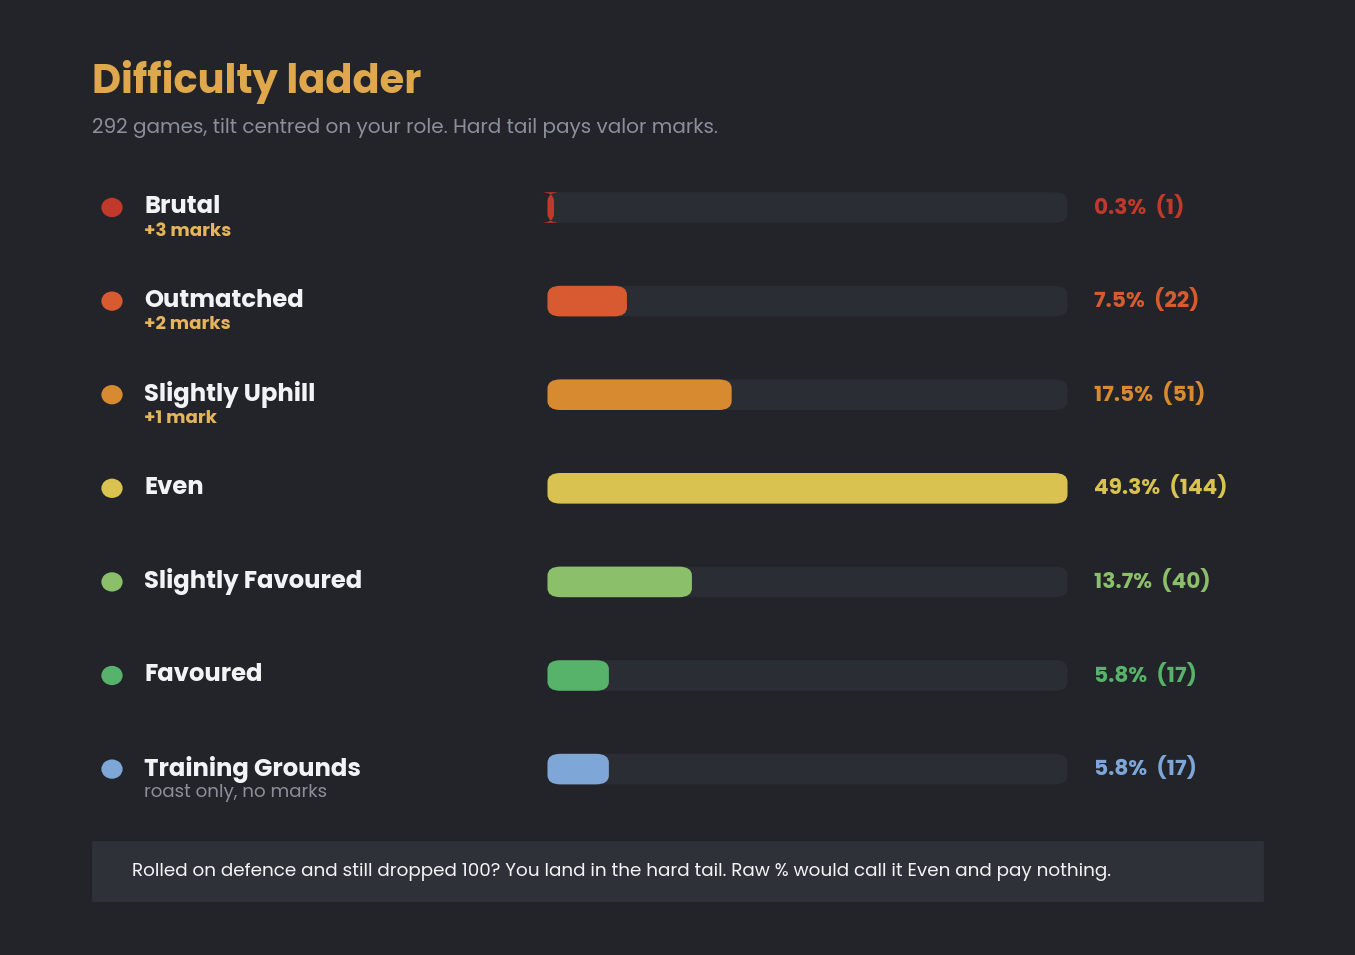
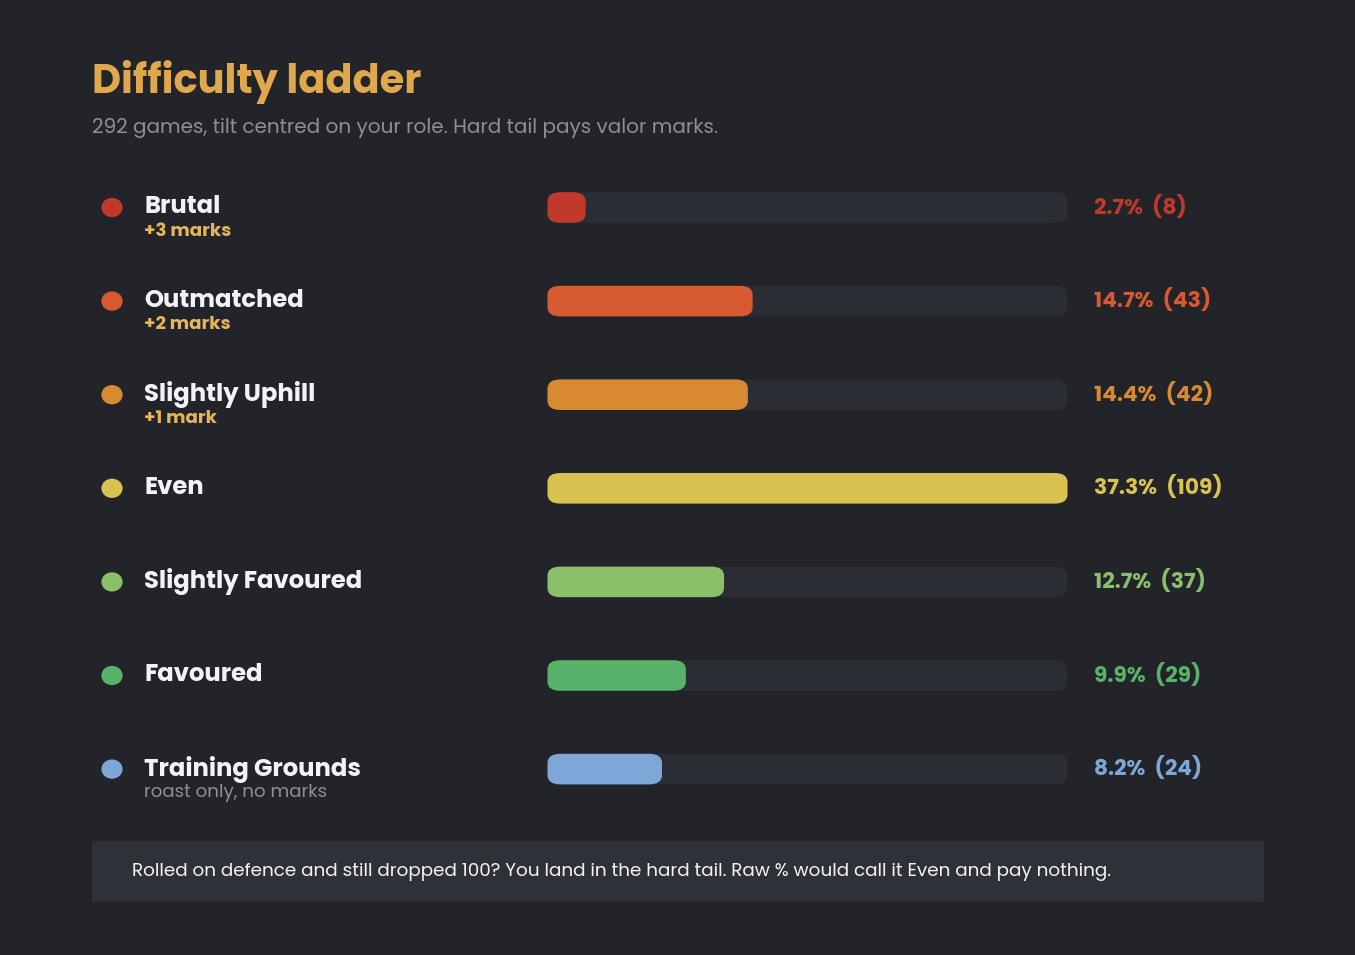
Retune difficulty bands to +/-10/22/40: tighter Even, uniform inner chunks, rare extremes; update tests, rules, charts

diff --git a/tests/test_tilt.py b/tests/test_tilt.py
@@ -52,34 +52,34 @@ def test_adjusted_centres_on_role():
 
 
 def test_band_boundaries_and_tags():
-    # Deep hard tail.
+    # Deep hard tail (Brutal: <= -40).
     assert tilt.band(-60)["name"] == "Brutal"
     assert tilt.band(-60)["marks"] == 3
     assert tilt.band(-60)["tag"] == "Brutal"
-    # Outmatched: -50..-30.
-    assert tilt.band(-40)["name"] == "Outmatched"
-    assert tilt.band(-40)["marks"] == 2
-    # Slightly Uphill: -30..-15, +1 mark.
-    assert tilt.band(-20)["name"] == "Slightly Uphill"
-    assert tilt.band(-20)["marks"] == 1
-    assert tilt.band(-20)["tag"] == "Uphill"
-    # Even core pays nothing.
+    # Outmatched: -40..-22.
+    assert tilt.band(-30)["name"] == "Outmatched"
+    assert tilt.band(-30)["marks"] == 2
+    # Slightly Uphill: -22..-10, +1 mark.
+    assert tilt.band(-15)["name"] == "Slightly Uphill"
+    assert tilt.band(-15)["marks"] == 1
+    assert tilt.band(-15)["tag"] == "Uphill"
+    # Even core (-10..+10) pays nothing.
     assert tilt.band(0)["name"] == "Even"
     assert tilt.band(0)["marks"] == 0
     assert tilt.band(0)["tag"] is None
     # Easy tail.
-    assert tilt.band(40)["name"] == "Favoured"
-    assert tilt.band(80)["name"] == "Training Grounds"
-    assert tilt.band(80)["marks"] == 0
+    assert tilt.band(30)["name"] == "Favoured"
+    assert tilt.band(60)["name"] == "Training Grounds"
+    assert tilt.band(60)["marks"] == 0
 
 
 def test_band_edges_are_inclusive_low():
     # Exactly on an edge lands in the higher (easier) band.
-    assert tilt.band(-50)["name"] == "Outmatched"   # -50 is Outmatched's low edge
-    assert tilt.band(-30)["name"] == "Slightly Uphill"
-    assert tilt.band(-15)["name"] == "Even"
-    assert tilt.band(15)["name"] == "Slightly Favoured"
-    assert tilt.band(50)["name"] == "Training Grounds"
+    assert tilt.band(-40)["name"] == "Outmatched"   # -40 is Outmatched's low edge
+    assert tilt.band(-22)["name"] == "Slightly Uphill"
+    assert tilt.band(-10)["name"] == "Even"
+    assert tilt.band(10)["name"] == "Slightly Favoured"
+    assert tilt.band(40)["name"] == "Training Grounds"
 
 
 def test_tag_marks_map():

diff --git a/cogs/admin.py b/cogs/admin.py
@@ -78,7 +78,7 @@ def build_challenge_rules_embeds():
         "<a:100kill:1361412390339608686> +1 for 100 Kills\n"
         "<a:triple:1365532698260668466> +1 for Triple\n"
         "<a:highscore:1360312918545269057> +1 for Leaderboard High Score\n"
-        "🔴 +1 for a Brutal Lobby"
+        "🟠 +1 to +3 for a hard lobby (see Lobby Difficulty)"
     ), inline=False)
     e.add_field(name="Note", value="Goedendag counts for Polearms **and** Engineer (Footman).", inline=False)
     embeds.append(e)
@@ -88,17 +88,25 @@ def build_challenge_rules_embeds():
         title="⚖️  Lobby Difficulty",
         description=(
             "Every submission is graded by the kill gap between the two teams, read "
-            "from the scoreboard banners and measured against the smaller team's total. "
-            "The marker appears on your submission blurb."
+            "from the scoreboard banners relative to the smaller side. A big game is "
+            "far easier on attack (target-rich) than on defence, so we subtract your "
+            "role's baseline first: the grade reflects how hard YOUR lobby was, not "
+            "just which side you were on. The marker shows on your blurb, and the hard "
+            "tail pays valor marks."
         ),
         colour=C("#992d2d"),
     )
-    e.add_field(name="The gradient", value=(
-        "🍼 **Training Grounds** — your team up 75% or more. The playpen. Expect mockery.\n"
-        "🟢 **Favoured** — up 25–74%\n"
-        "🟡 **Even** — within ±25%\n"
-        "🟠 **Uphill** — down 25–74%\n"
-        "🔴 **Brutal** — down 75% or more. Surviving it pays **+1 mark**. Valor pay."
+    e.add_field(name="The ladder (adjusted gap vs your role's norm)", value=(
+        "🔴 **Brutal** (≤ −40%) — pays **+3 marks**. Valor.\n"
+        "🟠 **Outmatched** (−40 to −22%) — pays **+2 marks**.\n"
+        "🟠 **Slightly Uphill** (−22 to −10%) — pays **+1 mark**.\n"
+        "🟡 **Even** (−10 to +10%) — a typical game for your side. No marks.\n"
+        "🟢 **Slightly Favoured / Favoured** (+10 to +40%) — ahead of your norm.\n"
+        "🍼 **Training Grounds** (≥ +40%) — a runaway. The playpen. Mockery, no marks."
+    ), inline=False)
+    e.add_field(name="Hard carries", value=(
+        "Outmatched and Brutal runs stack on your registry card as counting badges "
+        "(🟠 xN · 🔴 xN) — a tally of the lobbies you carried against the odds."
     ), inline=False)
     embeds.append(e)
 

diff --git a/config.py b/config.py
@@ -344,12 +344,12 @@ TILT_BASELINE_DEFENSE = 8     # ... and of a posted defence run
 # the mark math and edits see it; the easy tail is label-only. Training Grounds
 # keeps its baby-bottle roast and earns nothing.
 TILT_BANDS = [
-    ( 50,  "Training Grounds",  "🍼", 0, None),
-    ( 30,  "Favoured",          "🟢", 0, None),
-    ( 15,  "Slightly Favoured", "🟢", 0, None),
-    (-15,  "Even",              "🟡", 0, None),
-    (-30,  "Slightly Uphill",   "🟠", 1, "Uphill"),
-    (-50,  "Outmatched",        "🟠", 2, "Outmatched"),
+    ( 40,  "Training Grounds",  "🍼", 0, None),
+    ( 22,  "Favoured",          "🟢", 0, None),
+    ( 10,  "Slightly Favoured", "🟢", 0, None),
+    (-10,  "Even",              "🟡", 0, None),
+    (-22,  "Slightly Uphill",   "🟠", 1, "Uphill"),
+    (-40,  "Outmatched",        "🟠", 2, "Outmatched"),
     (-999, "Brutal",            "🔴", 3, "Brutal"),
 ]
 # Difficulty tags that earn a counting badge (emoji xN) on the player card.

diff --git a/cogs/personality.py b/cogs/personality.py
@@ -72,7 +72,7 @@ Your server knowledge:
 - The lounge has a counting channel. You track its stats: current run, the record, lifetime counts, who counts most, and who breaks it (the Idiot role goes to breakers). When counting stats appear in your context, use the real numbers — the record of shame is prime roasting material.
 
 How the systems work (answer players' questions about these accurately and specifically):
-- Weapon marks: 1 mark per valid 100-takedown submission. Bonus marks: +1 for 200 takedowns, +1 for 100 kills, +1 for a Triple (150 TD, 100 kills, and 20,000 points), +1 for a leaderboard High Score (beating your own best on any board), +1 for a Brutal-lobby run (your team was outkilled by 75% or more — valor pay).
+- Weapon marks: 1 mark per valid 100-takedown submission. Bonus marks: +1 for 200 takedowns, +1 for 100 kills, +1 for a Triple (150 TD, 100 kills, and 20,000 points), +1 for a leaderboard High Score (beating your own best on any board), +1 to +3 for a hard lobby, graded on the kill gap adjusted for your role (attack farms kills, defence does not): Slightly Uphill +1, Outmatched +2, Brutal +3. Valor pay.
 - Weapon ranks (marks per weapon): Bronze 1, Silver 5, Gold 12, Emerald 25, Diamond 40, Crimson 60, then Prestige Bronze 80, Prestige Silver 100, Prestige Gold 115, Prestige Emerald 125, Prestige Diamond 133, Prestige Crimson 141, and Iridescent 150 (the top rank).
 - Mastery: 100 qualifying runs with a weapon makes it Mastered, 250 makes it Virtuoso. Counts across every class that wields the weapon.
 - Subclass and class ranks: each weapon rank-up gives a subclass mark, filling a subclass meter gives a class mark. Subclass ranks go Initiate, Veteran, Master, Grandmaster, Champion, Paragon, Apex. Class ranks go Sworn, Trusted, Proven, Honored, Esteemed, Exalted, Ascended.